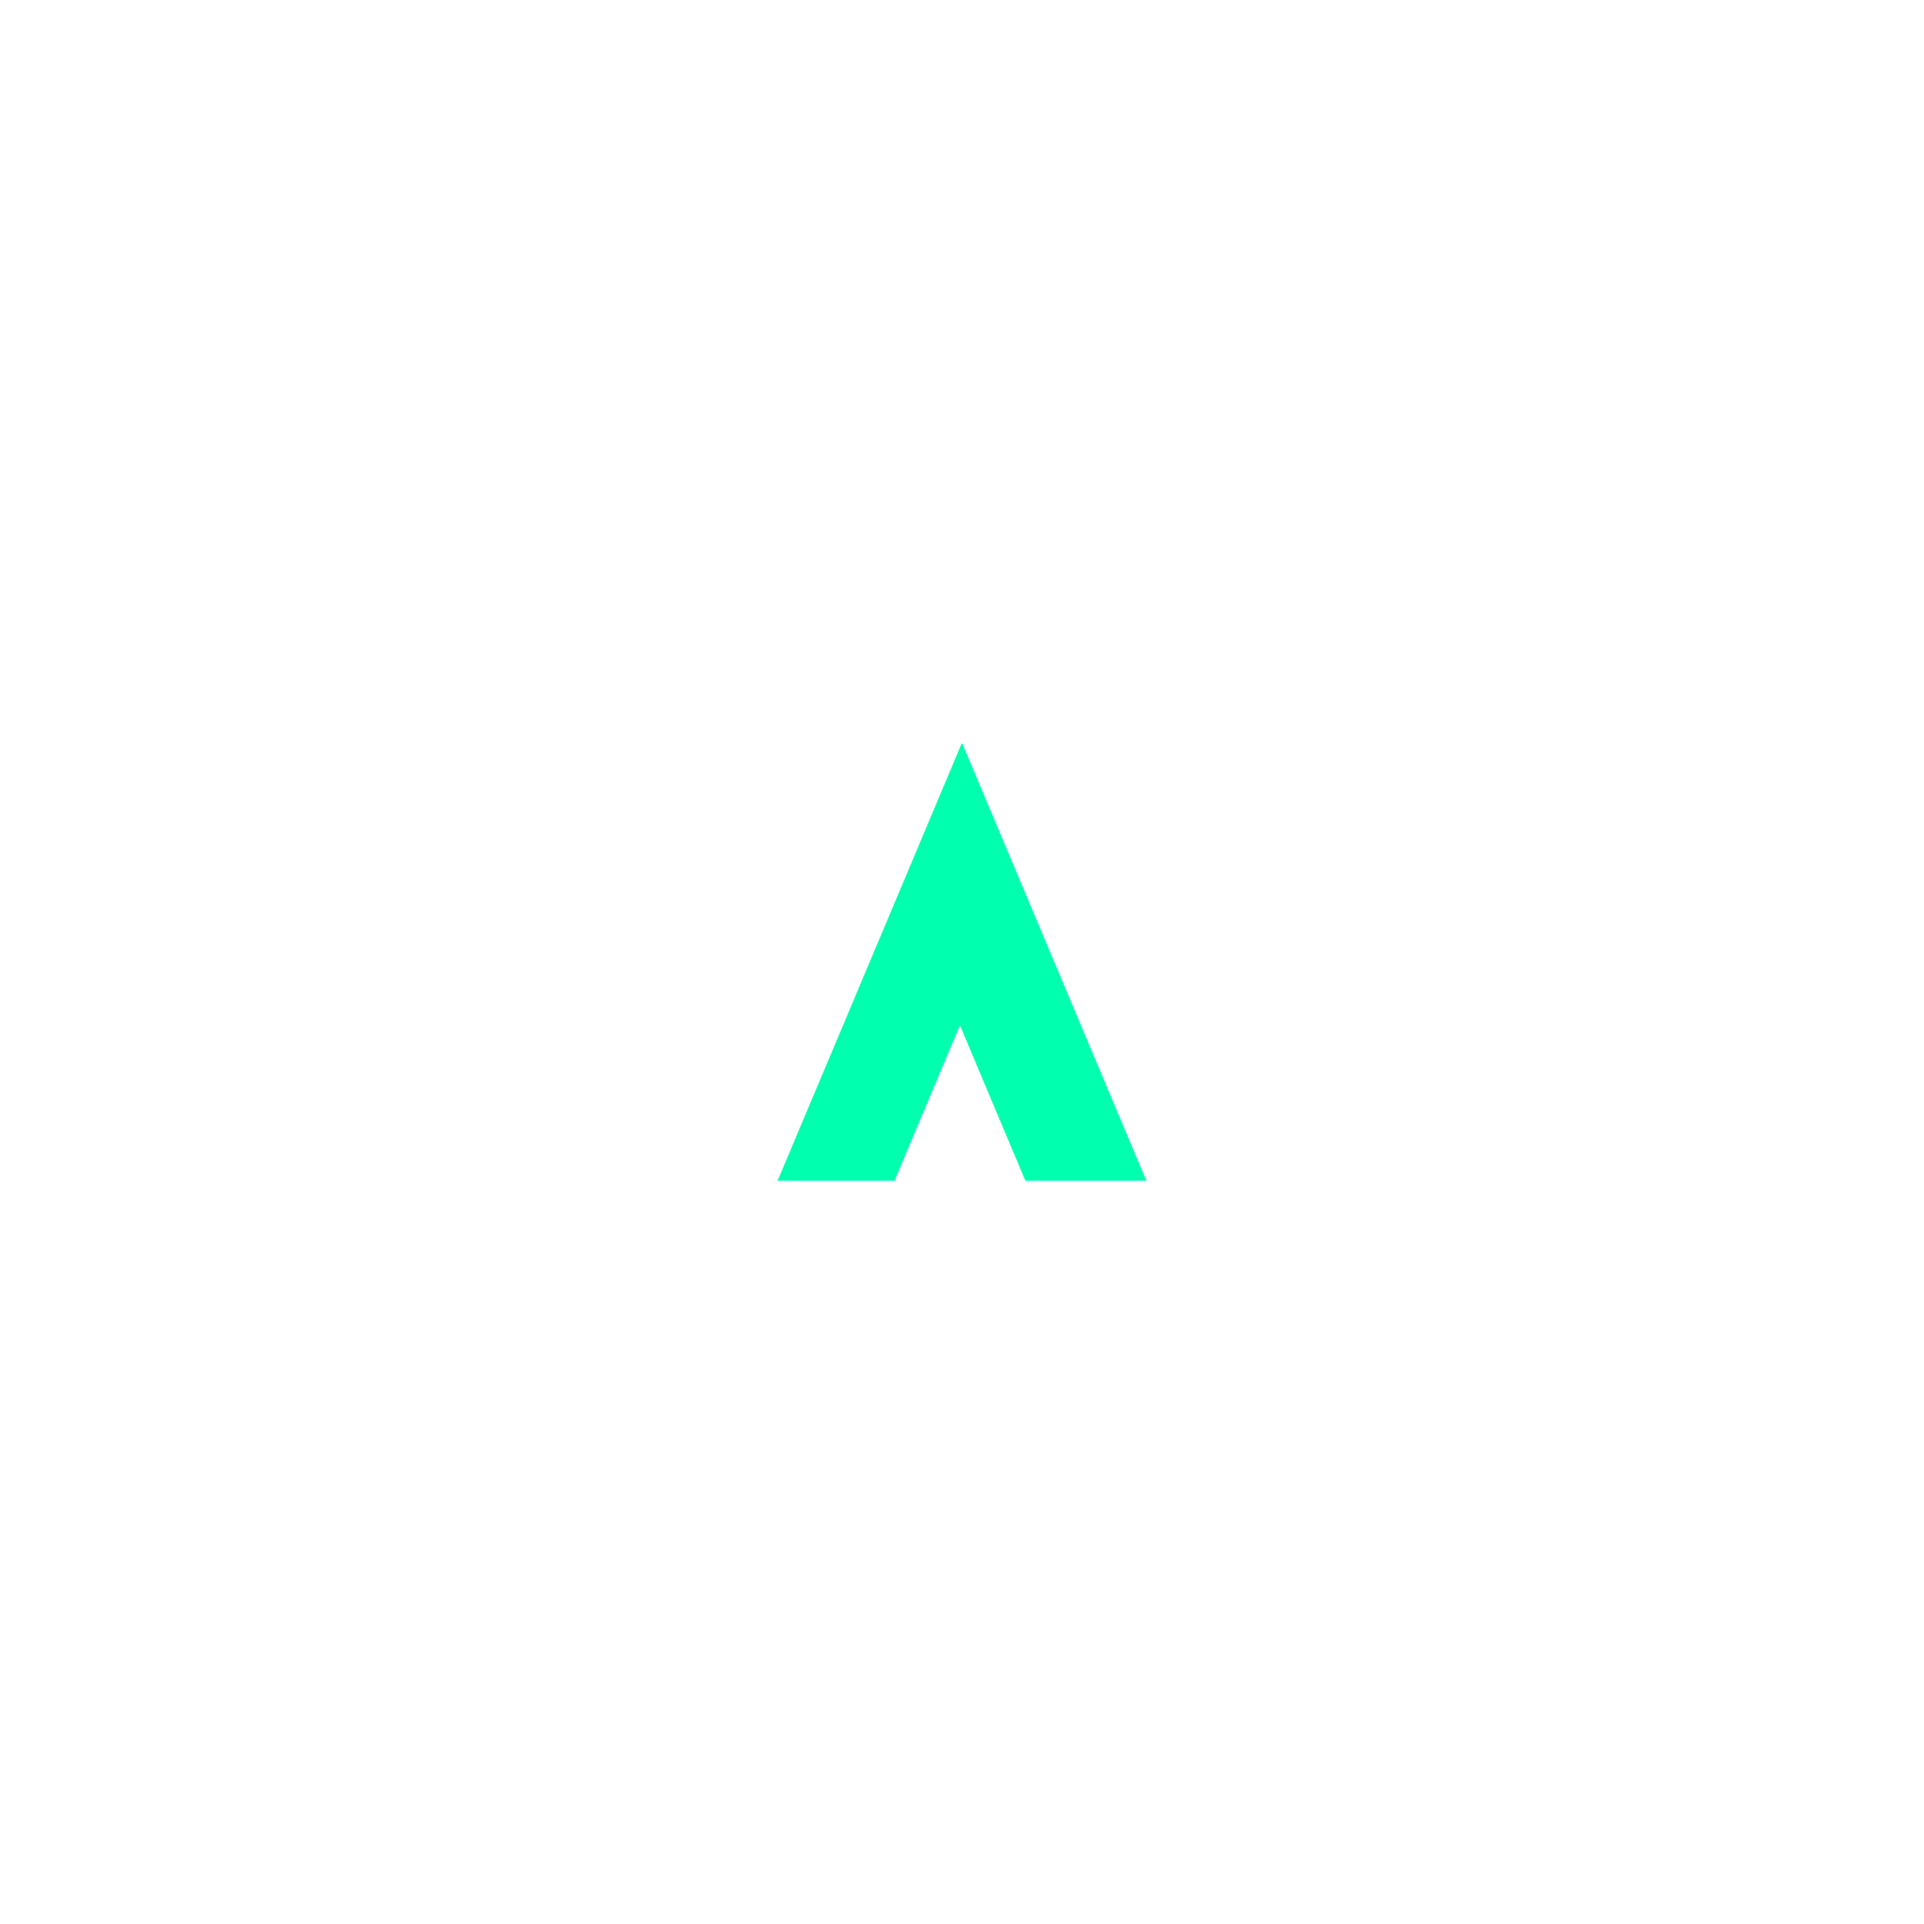
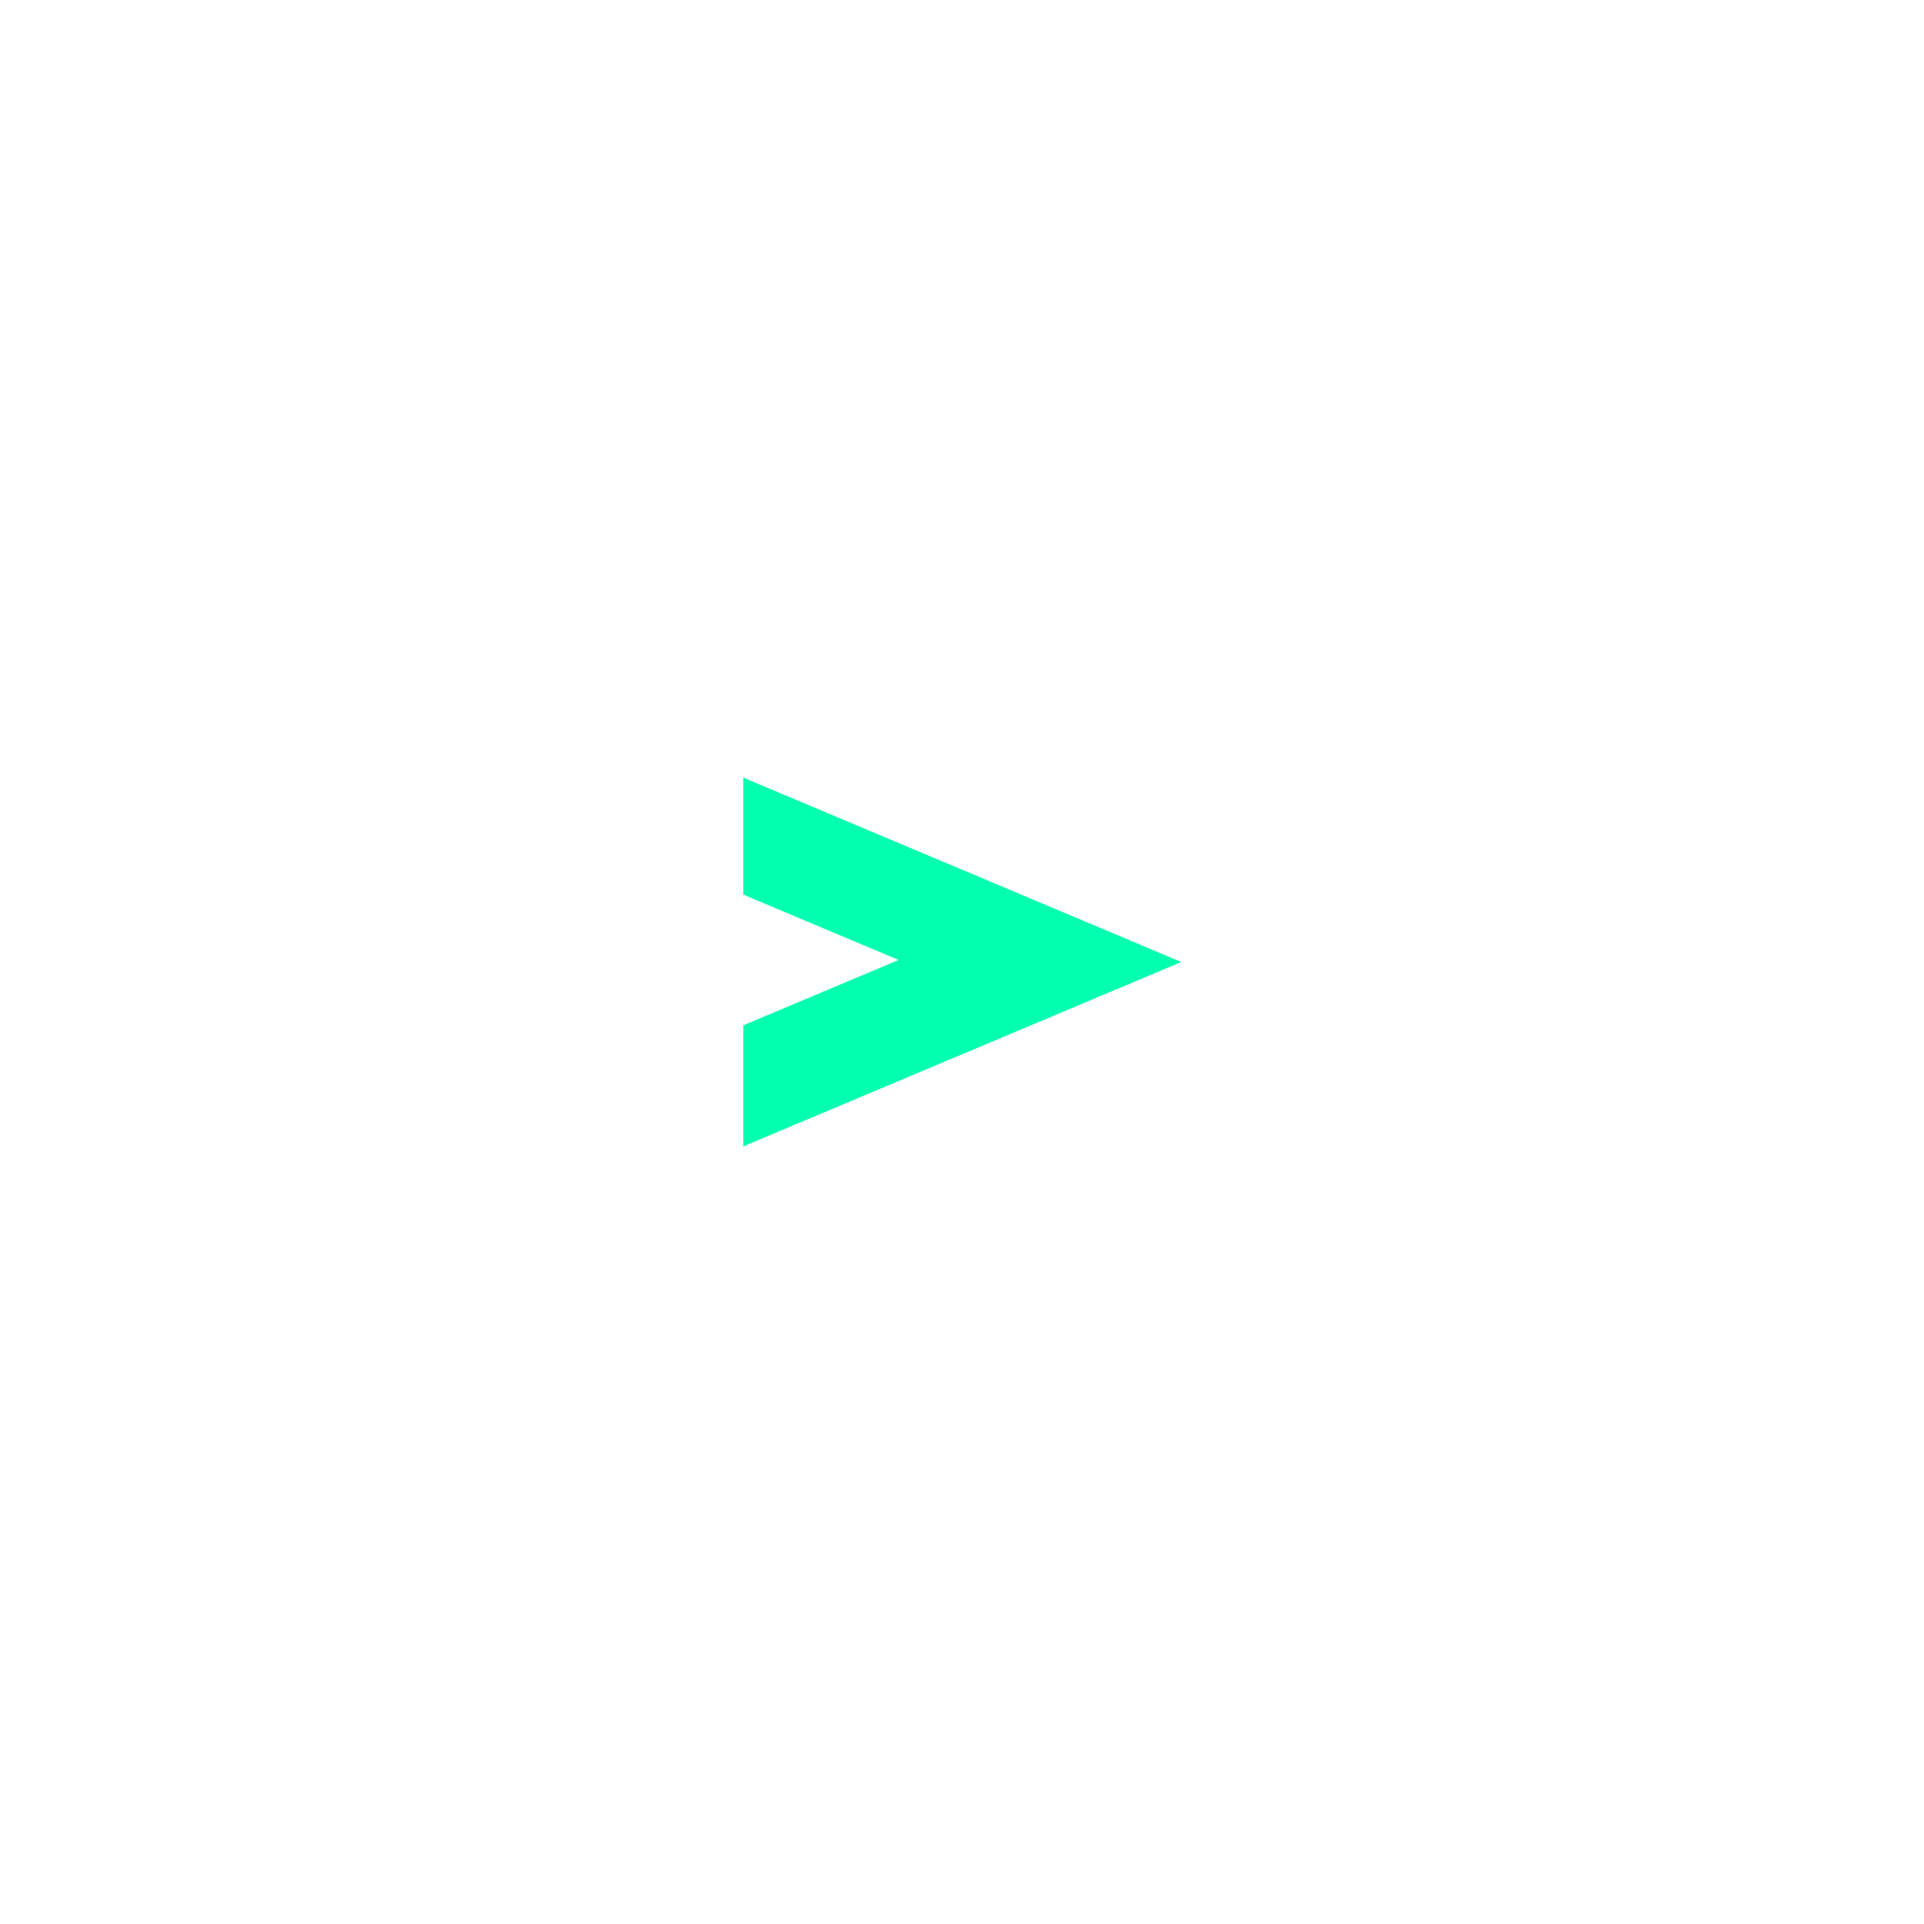
Added GoalArrows

Changed region(s): [[0.375, 0.4062, 0.5938, 0.625]]

diff --git a/GameJam2024/Assets/Scripts/UI/GoalArrow.cs b/GameJam2024/Assets/Scripts/UI/GoalArrow.cs
@@ -1,0 +1,73 @@
+using System;
+using GameLogic;
+using UnityEngine;
+
+namespace UI
+{
+    [RequireComponent(typeof(SpriteRenderer))]
+    public class GoalArrow : MonoBehaviour
+    {
+        [SerializeField] private float posOnViewPort = .9f;
+        [SerializeField] private float distanceToConsiderTargetAsReached = 1.5f;
+        private Vector3 _target;
+        private Camera _camera;
+
+        private SpriteRenderer _renderer;
+
+        public void Start()
+        {
+            _target = transform.position;
+
+            if (_camera == null)
+                _camera = GameManager.Instance.Cam;
+
+            _renderer = GetComponent<SpriteRenderer>();
+        }
+
+        private void Update()
+        {
+            Vector3 viewportTarget = _camera.WorldToViewportPoint(_target);
+
+            bool targetVisible = viewportTarget.x is >= 0 and <= 1
+                                 && viewportTarget.y is >= 0 and <= 1;
+
+            Vector3 direction = new();
+            if (!targetVisible)
+            {
+
+                Vector3 viewportCam = new Vector3(0.5f, 0.5f);
+
+                Vector3 viewportDistance = viewportTarget - viewportCam;
+                Vector3 newViewportDistance = Mathf.Abs(viewportDistance.x) > Mathf.Abs(viewportDistance.y)
+                    ? viewportDistance / (Mathf.Abs(viewportDistance.x) * 2f)
+                    : viewportDistance / (Mathf.Abs(viewportDistance.y) * 2f);
+
+                newViewportDistance *= posOnViewPort;
+
+                Vector3 newViewportPos = viewportCam + newViewportDistance;
+
+                Vector3 finalWorldPos = _camera.ViewportToWorldPoint(newViewportPos);
+                finalWorldPos.z = 0;
+
+                transform.position = finalWorldPos;
+
+                direction = _target - finalWorldPos;
+
+                targetVisible = direction.magnitude < distanceToConsiderTargetAsReached;
+
+            }
+
+            if (!targetVisible)
+            {
+                _renderer.enabled = true;
+
+                float angle = Mathf.Atan2(direction.y, direction.x) * Mathf.Rad2Deg;
+                transform.rotation = Quaternion.AngleAxis(angle, Vector3.forward);
+            }
+            else
+            {
+                _renderer.enabled = false;
+            }
+        }
+    }
+}

diff --git a/GameJam2024/Assets/Scripts/UI/GoalManager.cs b/GameJam2024/Assets/Scripts/UI/GoalManager.cs
@@ -14,7 +14,7 @@ namespace UI
             if (instantiatingEnabled)
             {
                 Instantiate(goalCircle, tile.Center, Quaternion.identity);
-                //Instantiate(goalArrow, tile.Center, Quaternion.identity);
+                Instantiate(goalArrow, tile.Center, Quaternion.identity);
             }
         }
     }
